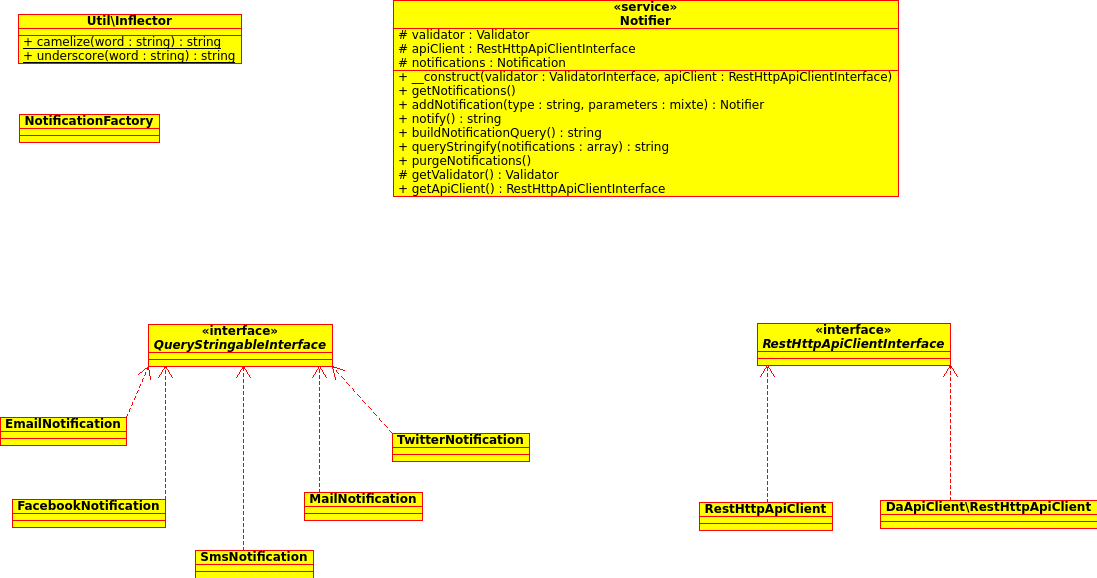
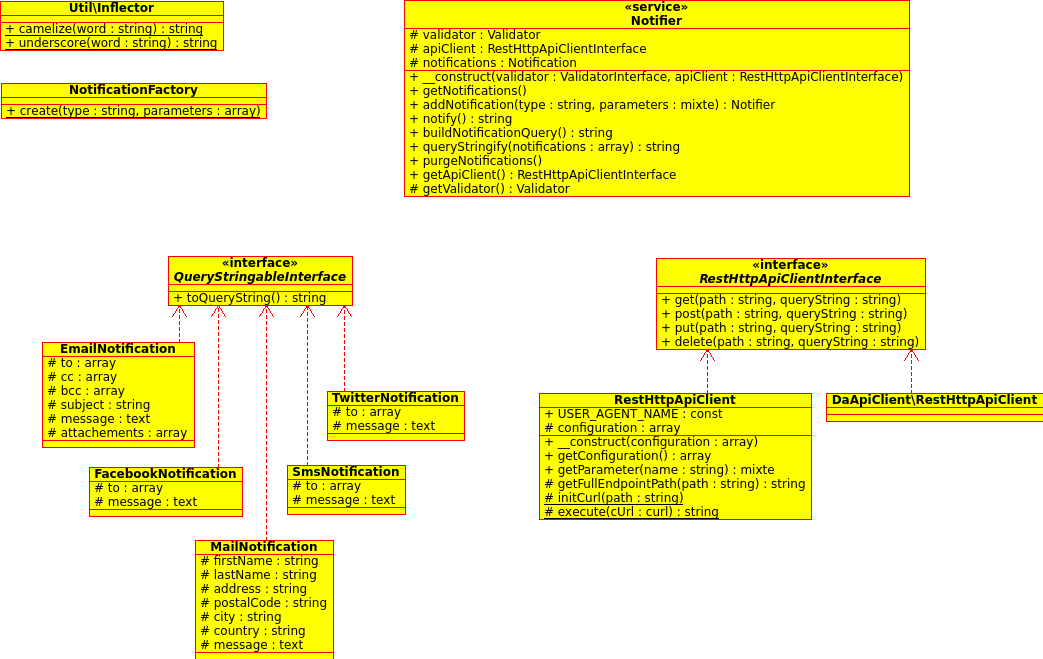
Clean UML schema, update documentation

diff --git a/README.md b/README.md
@@ -60,22 +60,9 @@ Advanced Client
 ---------------
 
 If you wish to use an advanced HTTP Api Client, we suggest the [DaApiClientBundle](https://github.com/Gnuckorg/DaApiClientBundle).
+Follow the documentation to install it.
 
-To use it, first add it to your application `composer.json`
-
-```json
-"require": {
-    ...
-    "da/api-client-bundle": "dev-master"
-},
-```
-
-Then install the bundle with the command:
-
-```sh
-php composer update
-```
-
+Once done, configure your application in order to tell notification bundle to use it.
 
 // TODO
 
